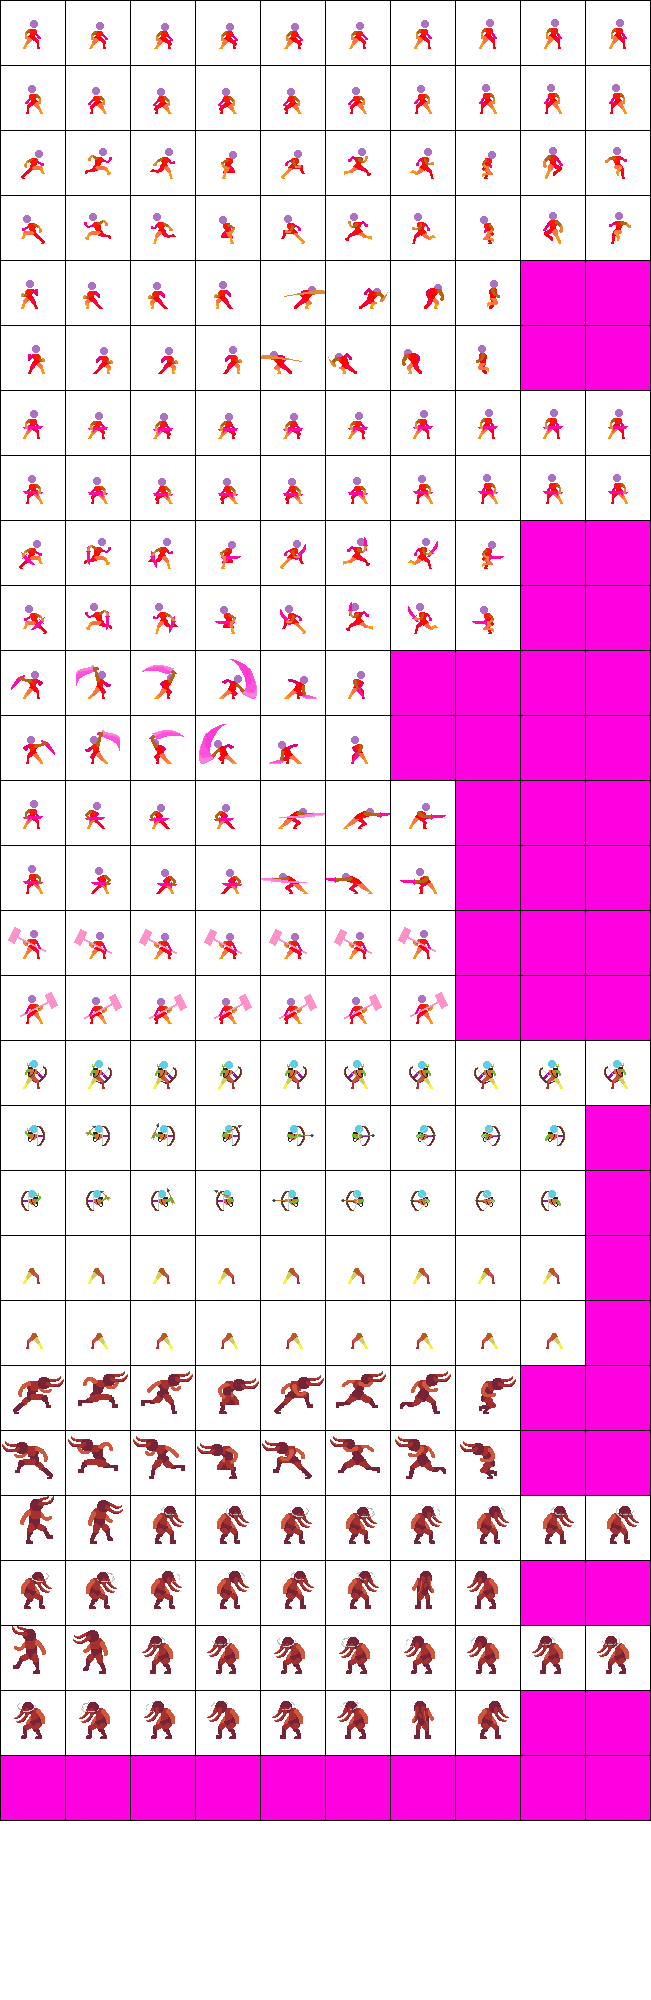
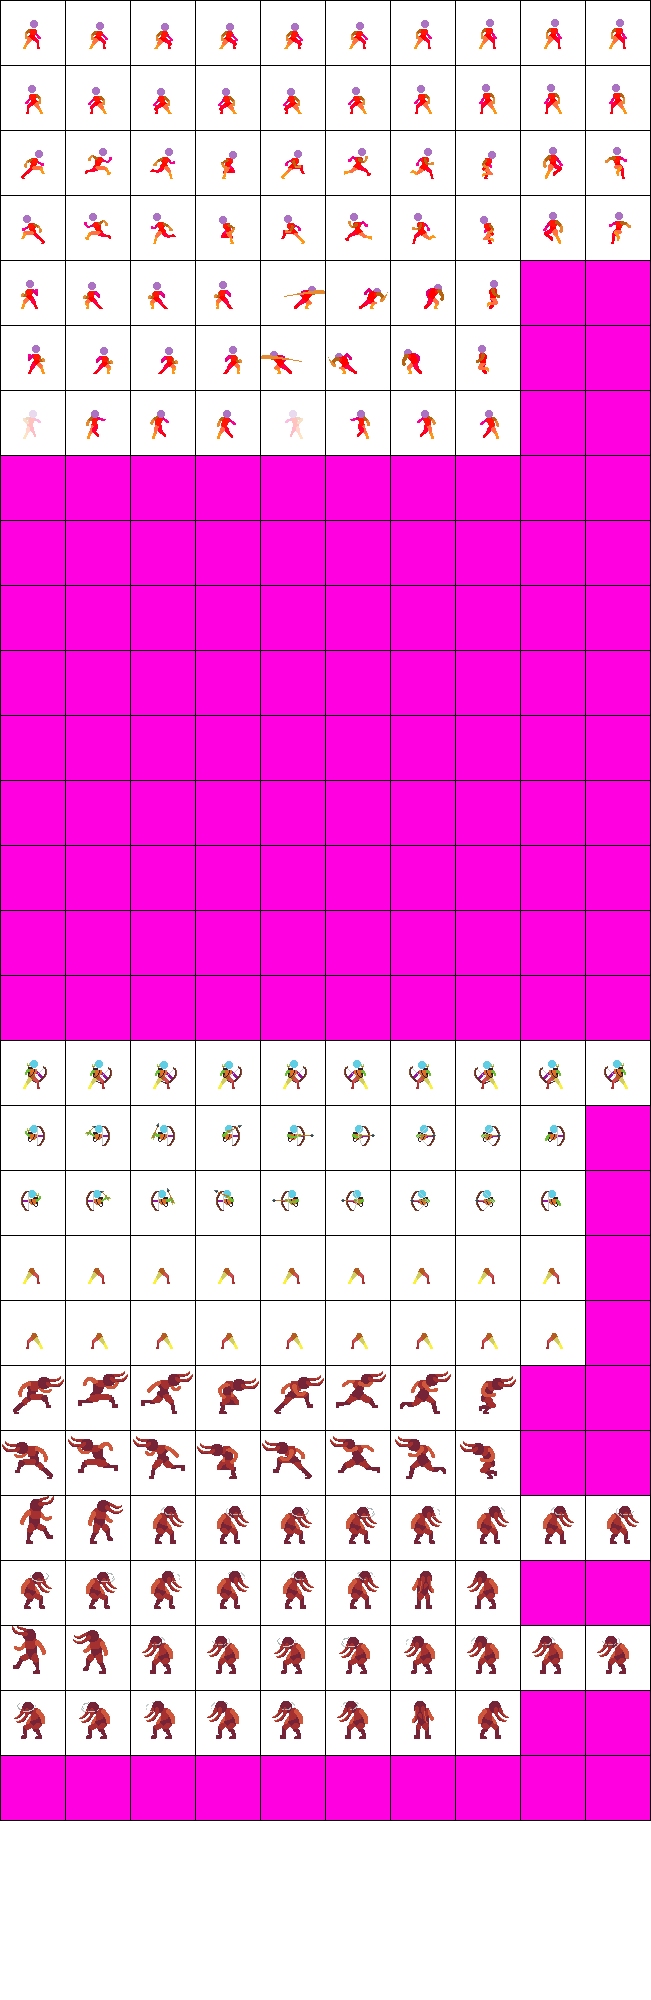
Added hurt animation for the basic enemy

Changed region(s): [[0.0, 0.186, 1.0, 0.527]]

diff --git a/GameProject2023/src/game_objects/BasicEnemy.java b/GameProject2023/src/game_objects/BasicEnemy.java
@@ -18,19 +18,23 @@ public class BasicEnemy extends Creature {
 
 	private ObjectHandler objectHandler;
 	
+	// If this enemy recently took damage and is in the hurt animation
+	private boolean tookDamage = false;
+
 	private boolean attacking = false;
 	private boolean startedAttacking = false;
 	private int attackCooldown = 2000;
 	private long lastAttackTimer = attackCooldown;
 
-//	private float runningSpeed = 3f;
-//	private float jumpingSpeed = -9f;
-	
+	//	private float runningSpeed = 3f;
+	//	private float jumpingSpeed = -9f;
+
 	private Animation[] idleAnimation;
 	private Animation[] runAnimation;
 	private Animation[] attackAnimation;
+	private Animation[] hurtAnimation;
 	private BufferedImage[] jumpingSprites;
-	
+
 	public BasicEnemy(int x, int y, ObjectHandler objectHandler) {
 		super(x, y, PLAYER_WIDTH, PLAYER_HEIGHT, 25, 100, 70, objectHandler, new ObjectId(ObjectId.Category.Enemy, ObjectId.Name.BasicEnemy));		
 		this.objectHandler = objectHandler;
@@ -50,15 +54,18 @@ public class BasicEnemy extends Creature {
 			if (velY > TERMINAL_VELOCITY)
 				velY = TERMINAL_VELOCITY;
 		}
-		
+
 		if (invulnerable && (System.currentTimeMillis() - lastInvulnerableTimer >= invulnerableDuration))
 			invulnerable = false;
+
+		if (tookDamage && (hurtAnimation[0].isPlayedOnce() || hurtAnimation[1].isPlayedOnce()))
+			tookDamage = false;
 		
 		//if (!knockedBack)
 		//handleMovement();
 		handleAttacking();
 		basicBlockCollision();
-		
+
 		runAnimations();
 	}
 
@@ -66,7 +73,7 @@ public class BasicEnemy extends Creature {
 	public void render(Graphics g) {
 		drawAnimations(g);
 	}
-	
+
 	private void handleAttacking() {
 		if (startedAttacking && !attacking) { 
 			if ((attackAnimation[0].getCurrentFrame() >= 4 && attackAnimation[0].getCurrentFrame() < 7) ||
@@ -75,26 +82,26 @@ public class BasicEnemy extends Creature {
 			else
 				attacking = false;
 		}
-			
+
 		if (knockedBack || (attacking && (attackAnimation[0].isPlayedOnce() || attackAnimation[1].isPlayedOnce()))) {
 			attacking = false;
 			startedAttacking = false;
-			
+
 			attackAnimation[0].resetAnimation();
 			attackAnimation[1].resetAnimation();
 		}
-		
+
 		// Try to attack the player or their summons
 		ArrayList<Creature> summonsList = objectHandler.getSummonsList();
 		for (int i = summonsList.size() - 1; i >= 0; i--) {
 			Creature otherCreature = summonsList.get(i);
-			
+
 			if (getGroundAttackBounds().intersects(otherCreature.getBounds())) {
 				if (System.currentTimeMillis() - lastAttackTimer >= attackCooldown) {
 					startedAttacking = true;
 					lastAttackTimer = System.currentTimeMillis();
 				}
-				
+
 				// Damage the player
 				if (attacking) {
 					otherCreature.applyKnockback(4 * direction, -5);
@@ -115,55 +122,75 @@ public class BasicEnemy extends Creature {
 			lastInvulnerableTimer = System.currentTimeMillis();
 			invulnerable = true;
 		}
+
+		tookDamage = true;
+		hurtAnimation[0].resetAnimation();
+		hurtAnimation[1].resetAnimation();
 		
 		setHealth(health - damageAmount);
-		objectHandler.addObject(new DamageNumberPopup(x + width / 3, y - height / 5, damageAmount, objectHandler), ObjectHandler.MENU_LAYER);
-		
+		objectHandler.addObject(new DamageNumberPopup(x + width / 3, y - height / 5, damageAmount, objectHandler),
+				ObjectHandler.MENU_LAYER);
+
 		if (health <= 0)
 			die();
 	}
-	
+
 	@Override
 	public void applyKnockback(float velX, float velY) {
 		if (invulnerable)
 			return;
-		
+
 		knockedBack = true;
 		this.velX = velX;
 		this.velY = velY;
 	}
-	
-	private void setupAnimations() {
-		idleAnimation = new Animation[2];
-		runAnimation = new Animation[2];
-		attackAnimation = new Animation[2];
 
+	private void setupAnimations() {
 		TextureLoader textureLoader = TextureLoader.getInstance();
 		jumpingSprites = textureLoader.getTextures(TextureName.BasicEnemyJump);
-		
+
 		final int idleDelay = 8;
+		idleAnimation = new Animation[] {
+				new Animation(textureLoader.getTexturesByDirection(TextureName.BasicEnemyIdle, 1),
+						idleDelay, false),
+				new Animation(textureLoader.getTexturesByDirection(TextureName.BasicEnemyIdle, -1),
+						idleDelay, false),
+		};
+
 		final int runDelay = 8;
-		final int attackDelay = 10;
+		runAnimation = new Animation[] {
+				new Animation(textureLoader.getTexturesByDirection(TextureName.BasicEnemyRun, 1),
+						runDelay, false),
+				new Animation(textureLoader.getTexturesByDirection(TextureName.BasicEnemyRun, -1),
+						runDelay, false),
+		};
 		
-		idleAnimation[0] = new Animation(textureLoader.getTexturesByDirection(TextureName.BasicEnemyIdle, 1),
-				idleDelay, false);
-		idleAnimation[1] = new Animation(textureLoader.getTexturesByDirection(TextureName.BasicEnemyIdle, -1),
-				idleDelay, false);
-		runAnimation[0] = new Animation(textureLoader.getTexturesByDirection(TextureName.BasicEnemyRun, 1),
-				runDelay, false);
-		runAnimation[1] = new Animation(textureLoader.getTexturesByDirection(TextureName.BasicEnemyRun, -1),
-				runDelay, false);
-		attackAnimation[0] = new Animation(textureLoader.getTexturesByDirection(TextureName.BasicEnemyAttack, 1),
-				attackDelay, true);
-		attackAnimation[1] = new Animation(textureLoader.getTexturesByDirection(TextureName.BasicEnemyAttack, -1),
-				attackDelay, true);
+		final int attackDelay = 10;
+		attackAnimation = new Animation[] {
+				new Animation(textureLoader.getTexturesByDirection(TextureName.BasicEnemyAttack, 1),
+						attackDelay, true),
+				new Animation(textureLoader.getTexturesByDirection(TextureName.BasicEnemyAttack, -1),
+						attackDelay, true),
+		};
+		
+		final int hurtDelay = 10;
+		hurtAnimation = new Animation[] {
+			new Animation(textureLoader.getTexturesByDirection(TextureName.BasicEnemyHurt, 1),
+					hurtDelay, true),
+			new Animation(textureLoader.getTexturesByDirection(TextureName.BasicEnemyHurt, -1),
+					hurtDelay, true),
+		};
+
 	}
-	
+
 	private void runAnimations() {
 		int directionToIndex = getIndexFromDirection();
-		
+
+		// Taken damage
+		if (tookDamage)
+			hurtAnimation[directionToIndex].runAnimation();
 		// Attacking
-		if (startedAttacking)
+		else if (startedAttacking)
 			attackAnimation[directionToIndex].runAnimation();
 		// Idle
 		else if (velX == 0)
@@ -175,9 +202,12 @@ public class BasicEnemy extends Creature {
 
 	private void drawAnimations(Graphics g) {
 		int directionToIndex = getIndexFromDirection();
-		
+
+		// Taken damage
+		if (tookDamage)
+			hurtAnimation[directionToIndex].drawAnimation(g, (int) x - width / 2, (int) y - height / 2, width * 2, height * 2);
 		// Attacking
-		if (startedAttacking)
+		else if (startedAttacking)
 			attackAnimation[directionToIndex].drawAnimation(g, (int) x - width / 2, (int) y - height / 2, width * 2, height * 2);
 		// Jumping
 		else if (jumping) {
@@ -195,7 +225,7 @@ public class BasicEnemy extends Creature {
 		else
 			runAnimation[directionToIndex].drawAnimation(g, (int) x - width / 2, (int) y - height / 2, width * 2, height * 2);
 	}
-	
+
 	public int getIndexFromDirection() {
 		return (-direction + 1) / 2;
 	}

diff --git a/GameProject2023/src/framework/TextureLoader.java b/GameProject2023/src/framework/TextureLoader.java
@@ -42,6 +42,7 @@ public class TextureLoader {
 		BasicEnemyAttack,
 		BasicEnemyIdle,
 		BasicEnemyJump,
+		BasicEnemyHurt,
 		
 		ArcherEnemyIdle,
 		ArcherEnemyShootTorso,
@@ -284,6 +285,11 @@ public class TextureLoader {
 				textures[i] = enemySheet.getSubimage(521 + i * 65, 131, 64, 64);
 				textures[i + 2] = enemySheet.getSubimage(521 + i * 65, 196, 64, 64);
 			}
+			break;
+		case BasicEnemyHurt:
+			textures = new BufferedImage[8];
+			for (int i = 0; i < textures.length; i++)
+				textures[i] = enemySheet.getSubimage(1 + i * 65, 391, 64, 64);
 			break;
 		case DiagonalStoneTiles:
 			textures = new BufferedImage[4];

diff --git a/GameProject2023/src/window/GameWindow.java b/GameProject2023/src/window/GameWindow.java
@@ -22,8 +22,8 @@ public class GameWindow extends JFrame {
 	 * @param main reference to the Game class, used to set up the JFrame with a Canvas.
 	 */
 	public GameWindow(Game game) {
-		setExtendedState(JFrame.MAXIMIZED_BOTH);
-		//setUndecorated(true);
+		//setExtendedState(JFrame.MAXIMIZED_BOTH);
+		setUndecorated(true);
 		setResizable(false);
 		setDefaultCloseOperation(JFrame.EXIT_ON_CLOSE);
 		setSize(GameConstants.ScaleConstants.GAME_WIDTH, GameConstants.ScaleConstants.GAME_HEIGHT);
